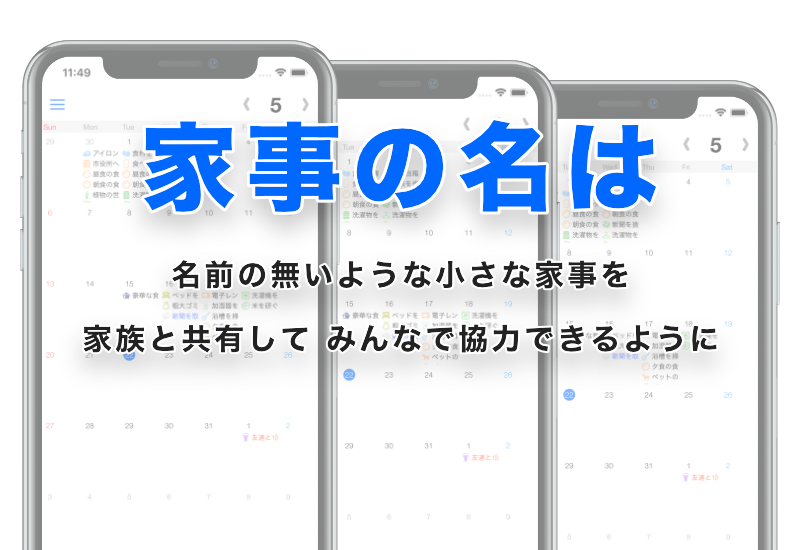
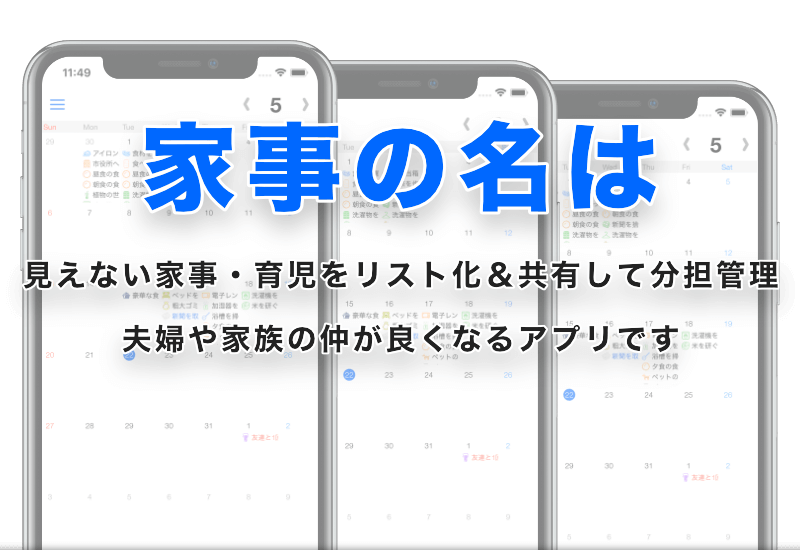
Updated texts and images

Changed region(s): [[0.0312, 0.4636, 1.0, 0.5564], [0.0938, 0.5873, 0.9062, 0.68], [0.0, 0.9891, 1.0, 1.0]]

diff --git a/docs/index.html b/docs/index.html
@@ -4,14 +4,13 @@
     <meta charset="utf-8">
     <meta http-equiv="X-UA-Compatible" content="IE=edge">
     <meta name="viewport" content="width=device-width, initial-scale=1">
-    <title>家事の名は - 家事の分担管理アプリ！夫婦やカップルや家族で協力して家事をする為に</title>
-    <meta name="title" content="家事の名は - 家事の分担管理アプリ！夫婦やカップルや家族で協力して家事をする為のアプリ">
-    <meta name="description" content="家事を家族で分担管理するiPhoneアプリ！夫婦間の家事に対する認識のズレや悩みを見える化して解決できます。ご家庭の「名もなき家事」をアプリに登録。家族で話し合ってご褒美を決めて、家事を頑張った人はポイントでご褒美をGET。">
-    <meta name="keywords" content="家事,分担,管理,共有,シェア,主婦,専業主婦,夫婦,共働き,見える化,小さな家事,名もなき家事,悩み,カップル,家族,不満,不平等,母の日,感謝,お手伝い,チェックリスト,チェックシート,iPhone無料アプリ,AppStore,iOSアプリ,便利">
+    <title>家事の名は - 家事のリスト化＆分担管理アプリ！夫婦や家族で家事共有</title>
+    <meta name="title" content="家事の名は - 家事のリスト化＆分担管理アプリ！夫婦や家族で家事共有">
+    <meta name="description" content="『家事の名は』は家事・育児をリスト化＆共有して、夫婦や家族の仲が良くなるiPhoneアプリです。家事をするとポイントが貯まってご褒美と交換！頑張ってくれた人に感謝の気持ちを贈れます。見えない家事・名もなき家事を見える化して楽しく分担管理しましょう！">
     <link rel="shortcut icon" href="images/favicon.ico">
     <!-- OGP -->
     <head prefix="og: http://ogp.me/ns# fb: http://ogp.me/ns/fb# article: http://ogp.me/ns/article#">
-    <meta property="og:title" content="家事の名は - 家事の分担管理アプリ！夫婦やカップルや家族で協力して家事をする為に">
+    <meta property="og:title" content="家事の名は - 家事のリスト化＆分担管理アプリ！夫婦や家族で家事共有">
     <meta property="og:type" content="website">
     <meta property="og:url" content="https://donikatachi.github.io/housework_lp/index.html">
     <meta property="og:image" content="https://donikatachi.github.io/housework_lp/images/ogp_image.png" />
@@ -41,36 +40,48 @@
 
     <section class="long_msg">
       <div class="w641 container text-center" style="max-width: 800px;">
-        家事や育児で「名もなき家事」と呼ばれている家事をご存知でしょうか？<br><br>
-        家事と言うと、「炊事」「洗濯」「掃除」などを思う方も多いかもしれません。<br>
-        しかし、これらの家事は一部にしかすぎません。<br><br>
-        多くの家事は名前のない地道な作業「名もなき家事」と呼ばれ、<br>
-        マイナスをゼロに戻す作業であるというデータが出ています。<br><br>
-        そして、多くのご家庭では、そのほとんどを「妻」が担当していると言う事実をご存知でしょうか？<br><br>
-        冷蔵庫のお茶や調味料の補充。<br>
-        トイレットペーバーなどの日用品の買い出し。<br>
-        衣類の補修や靴の整理、ベッドや布団のシーツ交換。<br>
-        電球交換や電子レンジなどの家電の手入れ。<br>
-        食器の片付けや残った食材の保存。<br>
-        ………<br>
-        …
+        きっと家事がゲームみたいに楽しくなる！<br>
+        『家事の名は』は家事をリスト化＆共有して、夫婦や家族の仲が良くなるアプリです。<br><br>
+        家事をするとポイントが貯まってご褒美と交換！<br>
+        頑張ってくれた人に感謝の気持ちを贈れます。<br>
+        見えない家事・名もなき家事を見える化して楽しく分担管理しましょう！<br><br>
+        ◆『見えない家事』・『名もなき家事』をご存知ですか？<br>
+        家事と言えば料理、洗濯、掃除をイメージしますが、実際には名前のない小さな家事がほとんどです。<br><br>
+        ・空のティッシュやトイレットペーパーの交換<br>
+        ・シャンプーの容器を洗って補充<br>
+        ・浴室の髪の毛や洗濯機のホコリを取る<br>
+        ・スーパーの特売チラシのチェック<br>
+        ・夕食のメニューを考える<br>
+        ・飲み終わったまま置かれたコップを洗う<br>
+        ・ゴミ箱のゴミを袋に集める<br>
+        などなど…数え上げればキリがありません。<br><br>
+        こういった小さな家事はマイナスをゼロに戻す作業です。<br>
+        やりがいは無い、やっても気付かれない、もちろん感謝もされない、でも誰かがやらないと家族が心地よく過ごせない…<br><br>
+        自分が何もしていないのに家で心地よく過ごせているとしたら、それはきっと自分以外の家族が陰でがんばってくれているはずです。<br><br><br>
+        ◆『見えない家事』や『名もなき家事』に名前を付けよう！<br>
+        このアプリではこういった小さな家事をリスト化して夫婦・家族で共有できます。
       </div>
       <div class="w640 container text-center" style="max-width: 800px;">
-        家事や育児で「名もなき家事」と呼ばれている家事をご存知でしょうか？<br><br>
-        家事と言うと、<br>
-        「炊事」「洗濯」「掃除」などを思う方も多いかもしれません。<br>
-        しかし、これらの家事は一部にしかすぎません。<br><br>
-        多くの家事は名前のない地道な作業「名もなき家事」と呼ばれ、<br>
-        マイナスをゼロに戻す作業であるというデータが出ています。<br><br>
-        そして多くのご家庭では、そのほとんどを「妻」が担当している<br>
-        と言う事実をご存知でしょうか？<br><br>
-        冷蔵庫のお茶や調味料の補充。<br>
-        トイレットペーバーなどの日用品の買い出し。<br>
-        衣類の補修や靴の整理、ベッドや布団のシーツ交換。<br>
-        電球交換や電子レンジなどの家電の手入れ。<br>
-        食器の片付けや残った食材の保存。<br>
-        ………<br>
-        …
+        きっと家事がゲームみたいに楽しくなる！<br>
+        『家事の名は』は家事をリスト化＆共有して、夫婦や家族の仲が良くなるアプリです。<br><br>
+        家事をするとポイントが貯まってご褒美と交換！<br>
+        頑張ってくれた人に感謝の気持ちを贈れます。<br>
+        見えない家事・名もなき家事を見える化して楽しく分担管理しましょう！<br><br>
+        ◆『見えない家事』・『名もなき家事』をご存知ですか？<br>
+        家事と言えば料理、洗濯、掃除をイメージしますが、実際には名前のない小さな家事がほとんどです。<br><br>
+        ・空のティッシュやトイレットペーパーの交換<br>
+        ・シャンプーの容器を洗って補充<br>
+        ・浴室の髪の毛や洗濯機のホコリを取る<br>
+        ・スーパーの特売チラシのチェック<br>
+        ・夕食のメニューを考える<br>
+        ・飲み終わったまま置かれたコップを洗う<br>
+        ・ゴミ箱のゴミを袋に集める<br>
+        などなど…数え上げればキリがありません。<br><br>
+        こういった小さな家事はマイナスをゼロに戻す作業です。<br>
+        やりがいは無い、やっても気付かれない、もちろん感謝もされない、でも誰かがやらないと家族が心地よく過ごせない…<br><br>
+        自分が何もしていないのに家で心地よく過ごせているとしたら、それはきっと自分以外の家族が陰でがんばってくれているはずです。<br><br><br>
+        ◆『見えない家事』や『名もなき家事』に名前を付けよう！<br>
+        このアプリではこういった小さな家事をリスト化して夫婦・家族で共有できます。
       </div>
     </section>
 
